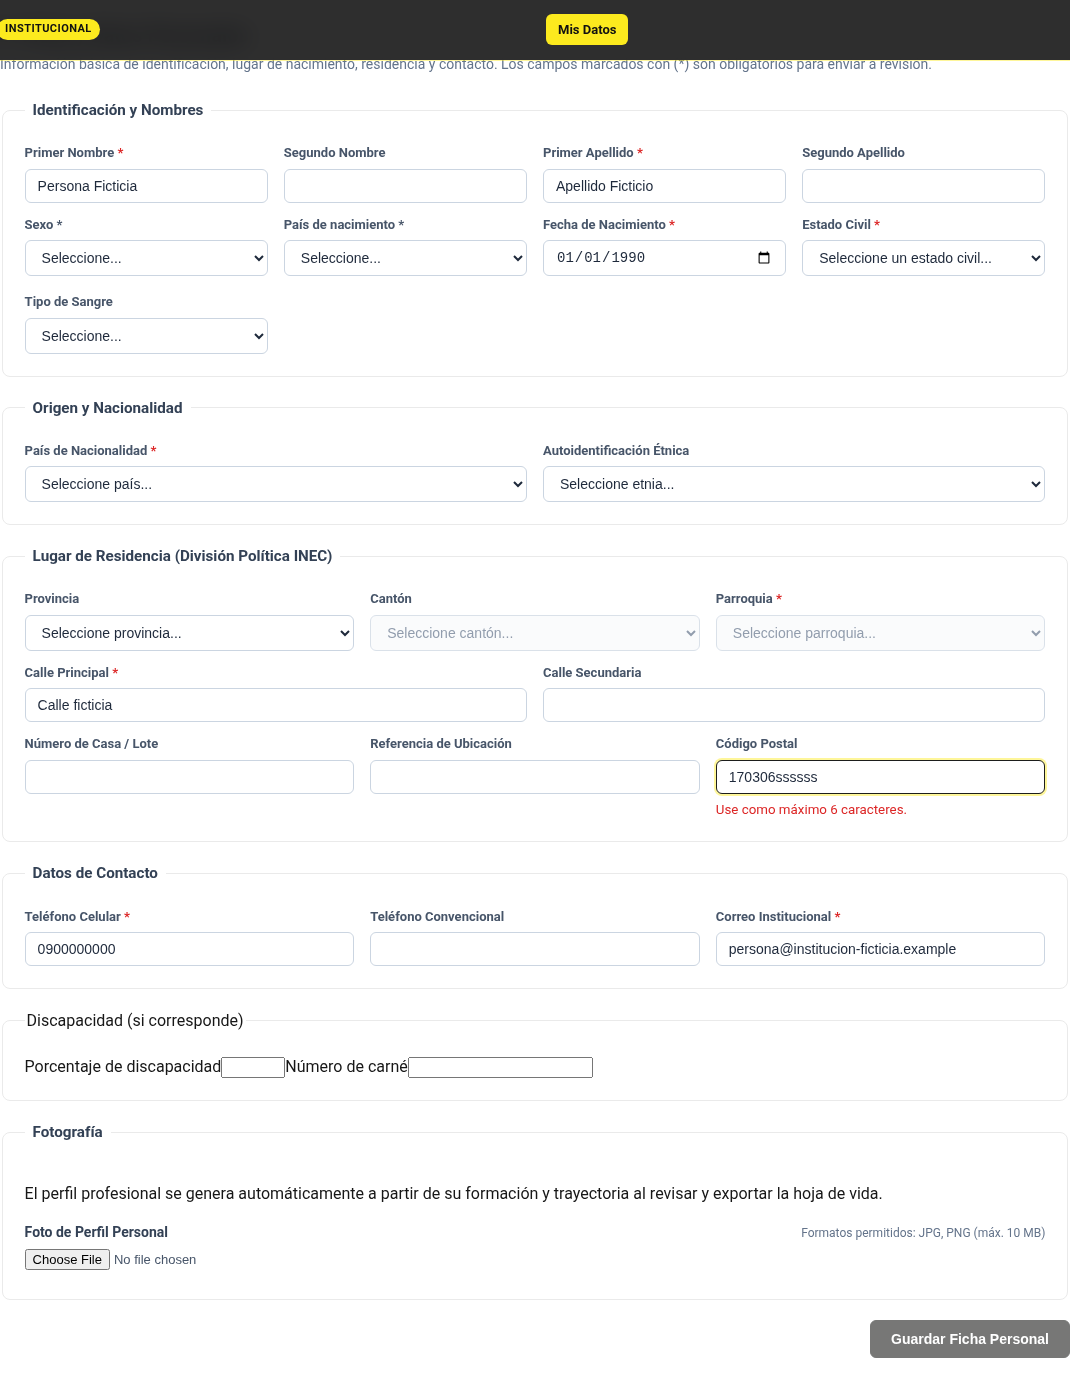
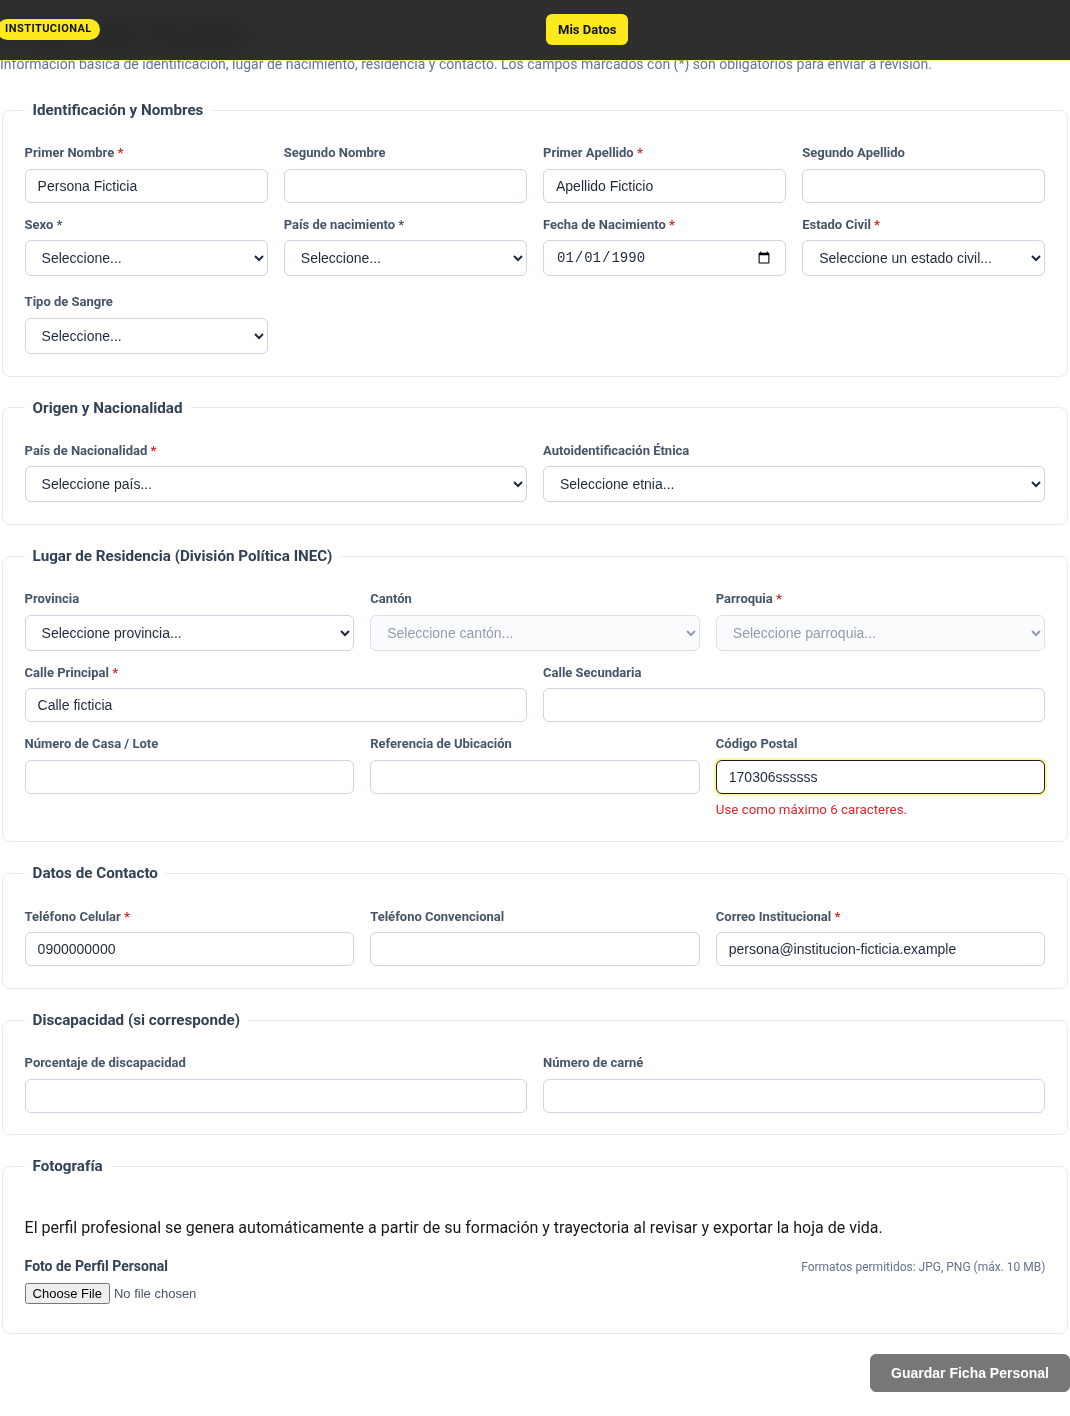
fix: completar verificaciones y preparar integración del issue 90

diff --git a/src/Frontend/src/app/features/usuario/hoja-de-vida/secciones/ficha-personal/ficha-personal.component.ts b/src/Frontend/src/app/features/usuario/hoja-de-vida/secciones/ficha-personal/ficha-personal.component.ts
@@ -507,33 +507,41 @@ import { HojaDeVidaStateService } from '../../servicios/hoja-de-vida-state.servi
         </fieldset>
 
         <fieldset class="grupo-campos mt-4" [disabled]="!puedeEditar()">
-          <legend>Discapacidad (si corresponde)</legend>
-          <label for="porcentajeDiscapacidad">Porcentaje de discapacidad</label
-          ><input
-            id="porcentajeDiscapacidad"
-            name="porcentajeDiscapacidad"
-            type="number"
-            [(ngModel)]="modelo.porcentajeDiscapacidad"
-            min="0"
-            max="100"
-            step="1"
-            aria-describedby="error-porcentaje"
-          />
-          @if (validacion.mensaje(modelo, 'ficha', 'porcentajeDiscapacidad'); as mensaje) {
-            <small id="error-porcentaje" class="text-danger" role="alert">{{ mensaje }}</small>
-          }
-          <label for="numeroCarnetDiscapacidad">Número de carné</label
-          ><input
-            id="numeroCarnetDiscapacidad"
-            name="numeroCarnetDiscapacidad"
-            [(ngModel)]="modelo.numeroCarnetDiscapacidad"
-            aria-describedby="error-carnet"
-          />
-          @if (validacion.mensaje(modelo, 'ficha', 'numeroCarnetDiscapacidad'); as mensaje) {
-            <small id="error-carnet" class="text-danger" role="alert">{{ mensaje }}</small>
-          }
+          <legend class="grupo-titulo">Discapacidad (si corresponde)</legend>
+          <div class="grid-dos">
+            <div class="form-group">
+              <label for="porcentajeDiscapacidad">Porcentaje de discapacidad</label
+              ><input
+                class="form-control"
+                id="porcentajeDiscapacidad"
+                name="porcentajeDiscapacidad"
+                type="number"
+                [(ngModel)]="modelo.porcentajeDiscapacidad"
+                min="0"
+                max="100"
+                step="1"
+                aria-describedby="error-porcentaje"
+              />
+              @if (validacion.mensaje(modelo, 'ficha', 'porcentajeDiscapacidad'); as mensaje) {
+                <small id="error-porcentaje" class="text-danger" role="alert">{{ mensaje }}</small>
+              }
+            </div>
+            <div class="form-group">
+              <label for="numeroCarnetDiscapacidad">Número de carné</label
+              ><input
+                class="form-control"
+                id="numeroCarnetDiscapacidad"
+                name="numeroCarnetDiscapacidad"
+                [(ngModel)]="modelo.numeroCarnetDiscapacidad"
+                aria-describedby="error-carnet"
+              />
+              @if (validacion.mensaje(modelo, 'ficha', 'numeroCarnetDiscapacidad'); as mensaje) {
+                <small id="error-carnet" class="text-danger" role="alert">{{ mensaje }}</small>
+              }
+            </div>
+          </div>
         </fieldset>
-        <!-- 5. FOTOGRAFÍA (spec-0006) -->
+        <!-- 5. FOTOGRAFÍA (spec-0007) -->
         <fieldset class="grupo-campos mt-4" [disabled]="!puedeEditar()">
           <legend class="grupo-titulo">Fotografía</legend>
 

diff --git a/src/Frontend/src/app/features/usuario/hoja-de-vida/secciones/experiencia-laboral/experiencia-laboral.component.ts b/src/Frontend/src/app/features/usuario/hoja-de-vida/secciones/experiencia-laboral/experiencia-laboral.component.ts
@@ -1,7 +1,4 @@
-import {
-  ValidacionHojaDeVidaService,
-  fechaPolitica,
-} from '../../servicios/validacion-hoja-de-vida.service';
+import { ValidacionHojaDeVidaService } from '../../servicios/validacion-hoja-de-vida.service';
 import { fechaSinHora } from '../../servicios/fecha-sin-hora';
 import { CommonModule } from '@angular/common';
 import { DestroyRef, Component, inject, OnInit, signal } from '@angular/core';
@@ -524,7 +521,6 @@ export class ExperienciaLaboralComponent implements OnInit {
     () => this.mostrarFormulario() && this.validacion.invalido(this.modelo, 'experiencia'),
     inject(DestroyRef),
   );
-  readonly fechaPolitica = fechaPolitica;
   private readonly state = inject(HojaDeVidaStateService);
   private readonly catalogos = inject(CatalogosCacheService);
 
@@ -633,8 +629,10 @@ export class ExperienciaLaboralComponent implements OnInit {
     if (this.validacion.invalido(this.modelo, 'experiencia')) return;
     this.state.guardarExperiencia(this.modelo, this.idEdicion()).subscribe({
       next: () => this.cancelarFormulario(),
-      error: (err) =>
-        this.errorFormulario.set(err?.message || 'Error al guardar la experiencia laboral.'),
+      error: (err) => {
+        this.validacion.registrarError(err, this.modelo);
+        this.errorFormulario.set(err?.message || 'Error al guardar la experiencia laboral.');
+      },
     });
   }
 

diff --git a/src/Frontend/src/app/features/usuario/hoja-de-vida/secciones/formacion-academica/formacion-academica.component.ts b/src/Frontend/src/app/features/usuario/hoja-de-vida/secciones/formacion-academica/formacion-academica.component.ts
@@ -1,7 +1,4 @@
-import {
-  ValidacionHojaDeVidaService,
-  fechaPolitica,
-} from '../../servicios/validacion-hoja-de-vida.service';
+import { ValidacionHojaDeVidaService } from '../../servicios/validacion-hoja-de-vida.service';
 import { fechaSinHora } from '../../servicios/fecha-sin-hora';
 import { CommonModule } from '@angular/common';
 import { DestroyRef, Component, inject, OnInit, signal } from '@angular/core';
@@ -964,7 +961,6 @@ export class FormacionAcademicaComponent implements OnInit {
       (this.mostrarFormEnCurso() && this.validacion.invalido(this.modeloEnCurso, 'tituloEnCurso')),
     inject(DestroyRef),
   );
-  readonly fechaPolitica = fechaPolitica;
   private readonly state = inject(HojaDeVidaStateService);
   private readonly catalogos = inject(CatalogosCacheService);
 
@@ -1228,8 +1224,10 @@ export class FormacionAcademicaComponent implements OnInit {
 
     this.state.guardarTituloEnCurso(this.modeloEnCurso, this.idEnCursoEdicion()).subscribe({
       next: () => this.cancelarFormEnCurso(),
-      error: (err) =>
-        this.errorFormulario.set(err?.message || 'Error al guardar el estudio en curso.'),
+      error: (err) => {
+        this.validacion.registrarError(err, this.modeloEnCurso);
+        this.errorFormulario.set(err?.message || 'Error al guardar el estudio en curso.');
+      },
     });
   }
 

diff --git a/src/Frontend/src/app/features/usuario/hoja-de-vida/servicios/validacion-hoja-de-vida.service.spec.ts b/src/Frontend/src/app/features/usuario/hoja-de-vida/servicios/validacion-hoja-de-vida.service.spec.ts
@@ -119,7 +119,16 @@ describe('Validación de hoja de vida', () => {
     expect(servicio.mensaje({ celular: '0900000001' }, 'ficha', 'celular')).toBe('');
   });
 
-  it.each([['Texto\nFicticio', true], ['Texto\r\nFicticio', true], ['Texto\rFicticio', false], ['Texto\tFicticio', false]])('valida controles de funciones %s', (funciones, valido) => {
-    expect(Object.keys(validarCampos({ funciones, trabajaActualmente: true }, 'experiencia', politicaFicticia)).length === 0).toBe(valido);
+  it.each([
+    ['Texto\nFicticio', true],
+    ['Texto\r\nFicticio', true],
+    ['Texto\rFicticio', false],
+    ['Texto\tFicticio', false],
+  ])('valida controles de funciones %s', (funciones, valido) => {
+    expect(
+      Object.keys(
+        validarCampos({ funciones, trabajaActualmente: true }, 'experiencia', politicaFicticia),
+      ).length === 0,
+    ).toBe(valido);
   });
 });

diff --git a/src/Frontend/src/app/features/usuario/hoja-de-vida/secciones/capacitaciones/capacitaciones.component.ts b/src/Frontend/src/app/features/usuario/hoja-de-vida/secciones/capacitaciones/capacitaciones.component.ts
@@ -1,7 +1,4 @@
-import {
-  ValidacionHojaDeVidaService,
-  fechaPolitica,
-} from '../../servicios/validacion-hoja-de-vida.service';
+import { ValidacionHojaDeVidaService } from '../../servicios/validacion-hoja-de-vida.service';
 import { fechaSinHora } from '../../servicios/fecha-sin-hora';
 import { CommonModule } from '@angular/common';
 import { DestroyRef, Component, inject, OnInit, signal } from '@angular/core';
@@ -550,7 +547,6 @@ export class CapacitacionesComponent implements OnInit {
     () => this.mostrarFormulario() && this.validacion.invalido(this.modelo, 'capacitacion'),
     inject(DestroyRef),
   );
-  readonly fechaPolitica = fechaPolitica;
   private readonly state = inject(HojaDeVidaStateService);
   private readonly catalogos = inject(CatalogosCacheService);
 

diff --git a/src/Frontend/src/app/features/usuario/hoja-de-vida/secciones/referencias/referencias.component.ts b/src/Frontend/src/app/features/usuario/hoja-de-vida/secciones/referencias/referencias.component.ts
@@ -1,7 +1,4 @@
-import {
-  ValidacionHojaDeVidaService,
-  fechaPolitica,
-} from '../../servicios/validacion-hoja-de-vida.service';
+import { ValidacionHojaDeVidaService } from '../../servicios/validacion-hoja-de-vida.service';
 import { CommonModule } from '@angular/common';
 import { DestroyRef, Component, computed, inject, signal } from '@angular/core';
 import { FormsModule } from '@angular/forms';
@@ -464,7 +461,6 @@ export class ReferenciasComponent {
     () => this.mostrarFormulario() && this.validacion.invalido(this.modelo, 'referencia'),
     inject(DestroyRef),
   );
-  readonly fechaPolitica = fechaPolitica;
   private readonly state = inject(HojaDeVidaStateService);
 
   readonly puedeEditar = this.state.puedeEditar;

diff --git a/src/Frontend/src/app/features/usuario/hoja-de-vida/servicios/validacion-hoja-de-vida.service.ts b/src/Frontend/src/app/features/usuario/hoja-de-vida/servicios/validacion-hoja-de-vida.service.ts
@@ -159,13 +159,11 @@ export class ValidacionHojaDeVidaService {
   }
   cargar(): void {
     this.errorCarga.set('');
-    this.cliente
-      .obtenerPoliticaValidacion()
-      .subscribe({
-        next: (politica) => this.politica.set(politica),
-        error: () =>
-          this.errorCarga.set('No se pudieron cargar las reglas de validación. Vuelva a intentar.'),
-      });
+    this.cliente.obtenerPoliticaValidacion().subscribe({
+      next: (politica) => this.politica.set(politica),
+      error: () =>
+        this.errorCarga.set('No se pudieron cargar las reglas de validación. Vuelva a intentar.'),
+    });
   }
   errores(datos: object, seccion: string): ErroresCampos {
     const politica = this.politica();

diff --git a/src/Backend/src/Istpet.ActualizacionDatos.Infrastructure/Servicios/ReglaFormatosHojaDeVida.cs b/src/Backend/src/Istpet.ActualizacionDatos.Infrastructure/Servicios/ReglaFormatosHojaDeVida.cs
@@ -27,6 +27,8 @@ public sealed class ReglaFormatosHojaDeVida(AplicacionDbContext contexto) : IReg
         foreach (var e in await contexto.ExperienciasLaborales.Where(t => t.PersonaId == personaId).ToListAsync(ct)) Revisar(e, "experiencia", "experiencias", e.Id);
         foreach (var r in await contexto.ReferenciasPersonales.Where(t => t.PersonaId == personaId).ToListAsync(ct)) Revisar(r, "referencia", "referencias", r.Id);
         foreach (var d in await contexto.DocumentosPersonales.Where(t => t.PersonaId == personaId).ToListAsync(ct)) Revisar(d, "documento", "documentos", d.Id);
+        var cuenta = await contexto.CuentasBancarias.SingleOrDefaultAsync(c => c.PersonaId == personaId, ct);
+        if (cuenta is not null) Revisar(new { cuenta.NombreBancoOtro }, "cuenta", "cuenta-bancaria", cuenta.Id);
         return faltantes;
     }
 }

diff --git a/src/Backend/tests/Istpet.ActualizacionDatos.WebApi.Tests/CargaNominaAmpliadaTests.cs b/src/Backend/tests/Istpet.ActualizacionDatos.WebApi.Tests/CargaNominaAmpliadaTests.cs
@@ -298,8 +298,11 @@ public sealed class CargaNominaAmpliadaTests : IDisposable
     }
 
     [Theory]
-    [InlineData("0900000000", true, false)] [InlineData("020000000", false, true)]
-    [InlineData("09000abc00", false, false)] [InlineData("0800000000", false, false)] [InlineData("09 00000000", false, false)]
+    [InlineData("0900000000", true, false)]
+    [InlineData("020000000", false, true)]
+    [InlineData("09000abc00", false, false)]
+    [InlineData("0800000000", false, false)]
+    [InlineData("09 00000000", false, false)]
     public async Task Importacion_no_reclasifica_telefonos_invalidos_y_advierte_sin_eco(string telefono, bool celular, bool convencional)
     {
         var institucion = InstitucionId.Nuevo();

diff --git a/src/Backend/tests/Istpet.ActualizacionDatos.WebApi.Tests/Spec0003E2ETests.cs b/src/Backend/tests/Istpet.ActualizacionDatos.WebApi.Tests/Spec0003E2ETests.cs
@@ -239,7 +239,7 @@ public sealed class Spec0003E2ETests : IDisposable
             await db.SaveChangesAsync();
         }
 
-        // 1. RF-HDV-001: completar ficha; el perfil se genera según spec-0006.
+        // 1. RF-HDV-001: completar ficha; el perfil se genera según spec-0007.
         var reqFicha = new GuardarFichaPersonalRequest(
             PrimerNombre: "Nombre Ficticio",
             PrimerApellido: "Apellido Ficticio",

diff --git a/docs/specs/spec-0007/spec.md b/docs/specs/spec-0007/spec.md
@@ -1,6 +1,6 @@
 # Validación de hoja de vida, correo institucional y perfil automático — Spec
 
-**ID:** spec-0006; issue #88
+**ID:** spec-0007; issue #88
 
 **Versión:** 0.1
 
@@ -176,10 +176,10 @@ Los logs de validación no contienen cuerpo, nombres, teléfonos, correos, perfi
 
 **Aprobó:** Responsable solicitante en esta conversación.
 
-**Fecha y evidencia:** 2026-10-26; respuesta «si, continua» después de presentar y solicitar aprobación de spec-0006 v0.1.
+**Fecha y evidencia:** 2026-10-26; respuesta «si, continua» después de presentar y solicitar aprobación de spec-0007 v0.1.
 
 **Ajustes solicitados:** Ninguno.
 
 Solo tras aprobar esta versión se crean `plan.md`, `tasks.md` y `test-e2e.md`, se registran los ADR correspondientes y se implementa. La aprobación del merge y cierre ya está autorizada por la solicitud del usuario, condicionada a completar y probar todo el alcance.
 
-**Renumeración documental:** aprobada originalmente como spec-0005 v0.1; renumerada a spec-0006 después de integrarse el PR #95, que ocupó ese número. Se conserva el alcance y la aprobación funcional. Los ADR correspondientes pasan de 0023/0024 a 0024/0025.
+**Renumeración documental:** aprobada originalmente como spec-0005 v0.1; renumerada a spec-0007 después de integrarse los PR #95 y #96, que ocuparon los números 0005 y 0006. Se conserva el alcance y la aprobación funcional. Los ADR correspondientes pasan de 0023/0024 a 0024/0025.

diff --git a/docs/specs/spec-0003/spec.md b/docs/specs/spec-0003/spec.md
@@ -231,6 +231,6 @@ Los datos personales, la formación por niveles, los cursos (curso → `NombreEv
 
 Aprobación registrada: `plan.md`, `tasks.md` y `test-e2e.md` se crearon el 2026-10-22 a partir de la versión 0.3 y se ajustaron a la 0.4. Cualquier cambio de alcance vuelve a revisión funcional antes de ejecutar tareas dependientes.
 
-## Modificación aprobada por spec-0006 v0.1 — issue #88
+## Modificación aprobada por spec-0007 v0.1 — issue #88
 
 La aprobación explícita del 2026-10-26 («si, continua» en la conversación de #88) y ADR-0025 sustituyen únicamente la parte de perfil de RF-HDV-020: la persona ya no lo escribe ni puede enviarlo. Se genera al revisar y exportar, con datos del expediente y sin persistir texto automático. La foto continúa opcional y bajo ADR-0006. Esta nota no aprueba las demás propuestas de v0.5 ni reescribe la aprobación histórica de v0.4.
